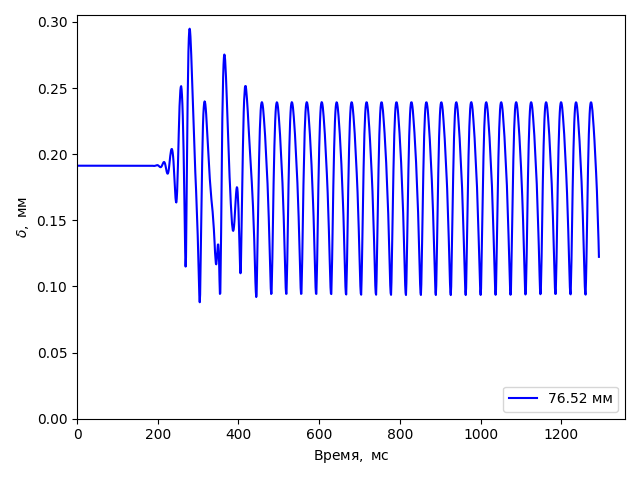
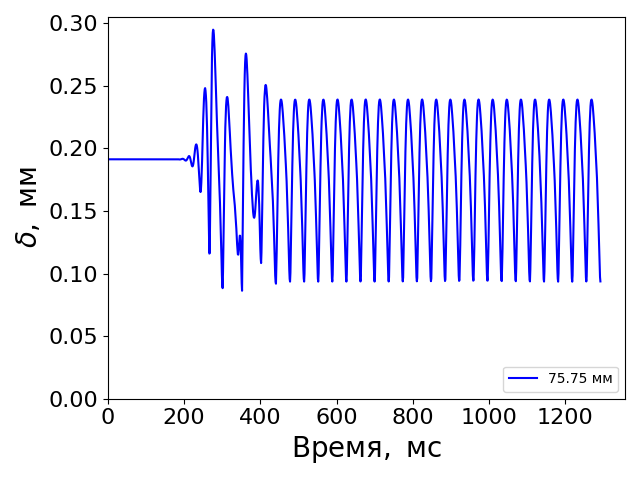
update format

diff --git a/processing_part2.py b/processing_part2.py
@@ -38,7 +38,7 @@ def set_param_matplotlib(name,rcParamsName,rcParamsVal):
     """
     name.rcParams[rcParamsName] = rcParamsVal
 
-nx_max = 3000
+nx_max = 750
 ny_max = 30
 dt_step = 0.001
 x_frac_start = 0.3 
@@ -70,9 +70,9 @@ print(f"LMax = {lmax:.4g}")
 def N2X(n,dx):
     return n*dx
 #choose points
-n1 = 2500
+n1 = 495
 xp1 = N2X(n1,dxmesh)
-n2 = 2520
+n2 = 505
 xp2 = N2X(n2,dxmesh)
 print(f"delta21 = {xp2-xp1:.4g}")
 name1 = "N" + str(n1)
@@ -95,6 +95,9 @@ power = np.abs(spec2)**2
 freqs = fftshift(fftfreq(nt, d=1.0))     # шт / t-ед.
 wavenums = fftshift(fftfreq(nx, d=1.0))
 
+import matplotlib as mpl
+mpl.rcParams['axes.labelsize'] = 20
+
 nameX = r'$\mathrm{Время,\ мс}$'
 nameY = r'$\delta \mathrm{,\ мм}$'
 fig, ax = plt.subplots(nrows=1,ncols = 1)
@@ -104,6 +107,7 @@ ax1.set_xlim(xmin = 0.0)
 ax1.set_ylim(ymin = 0.0)
 ax1.set_xlabel(nameX)
 ax1.set_ylabel(nameY)
+plt.tick_params(axis='both', which='major', labelsize=16)
 ax1.legend(loc='lower right')
 plt.tight_layout()
 plt.show()
